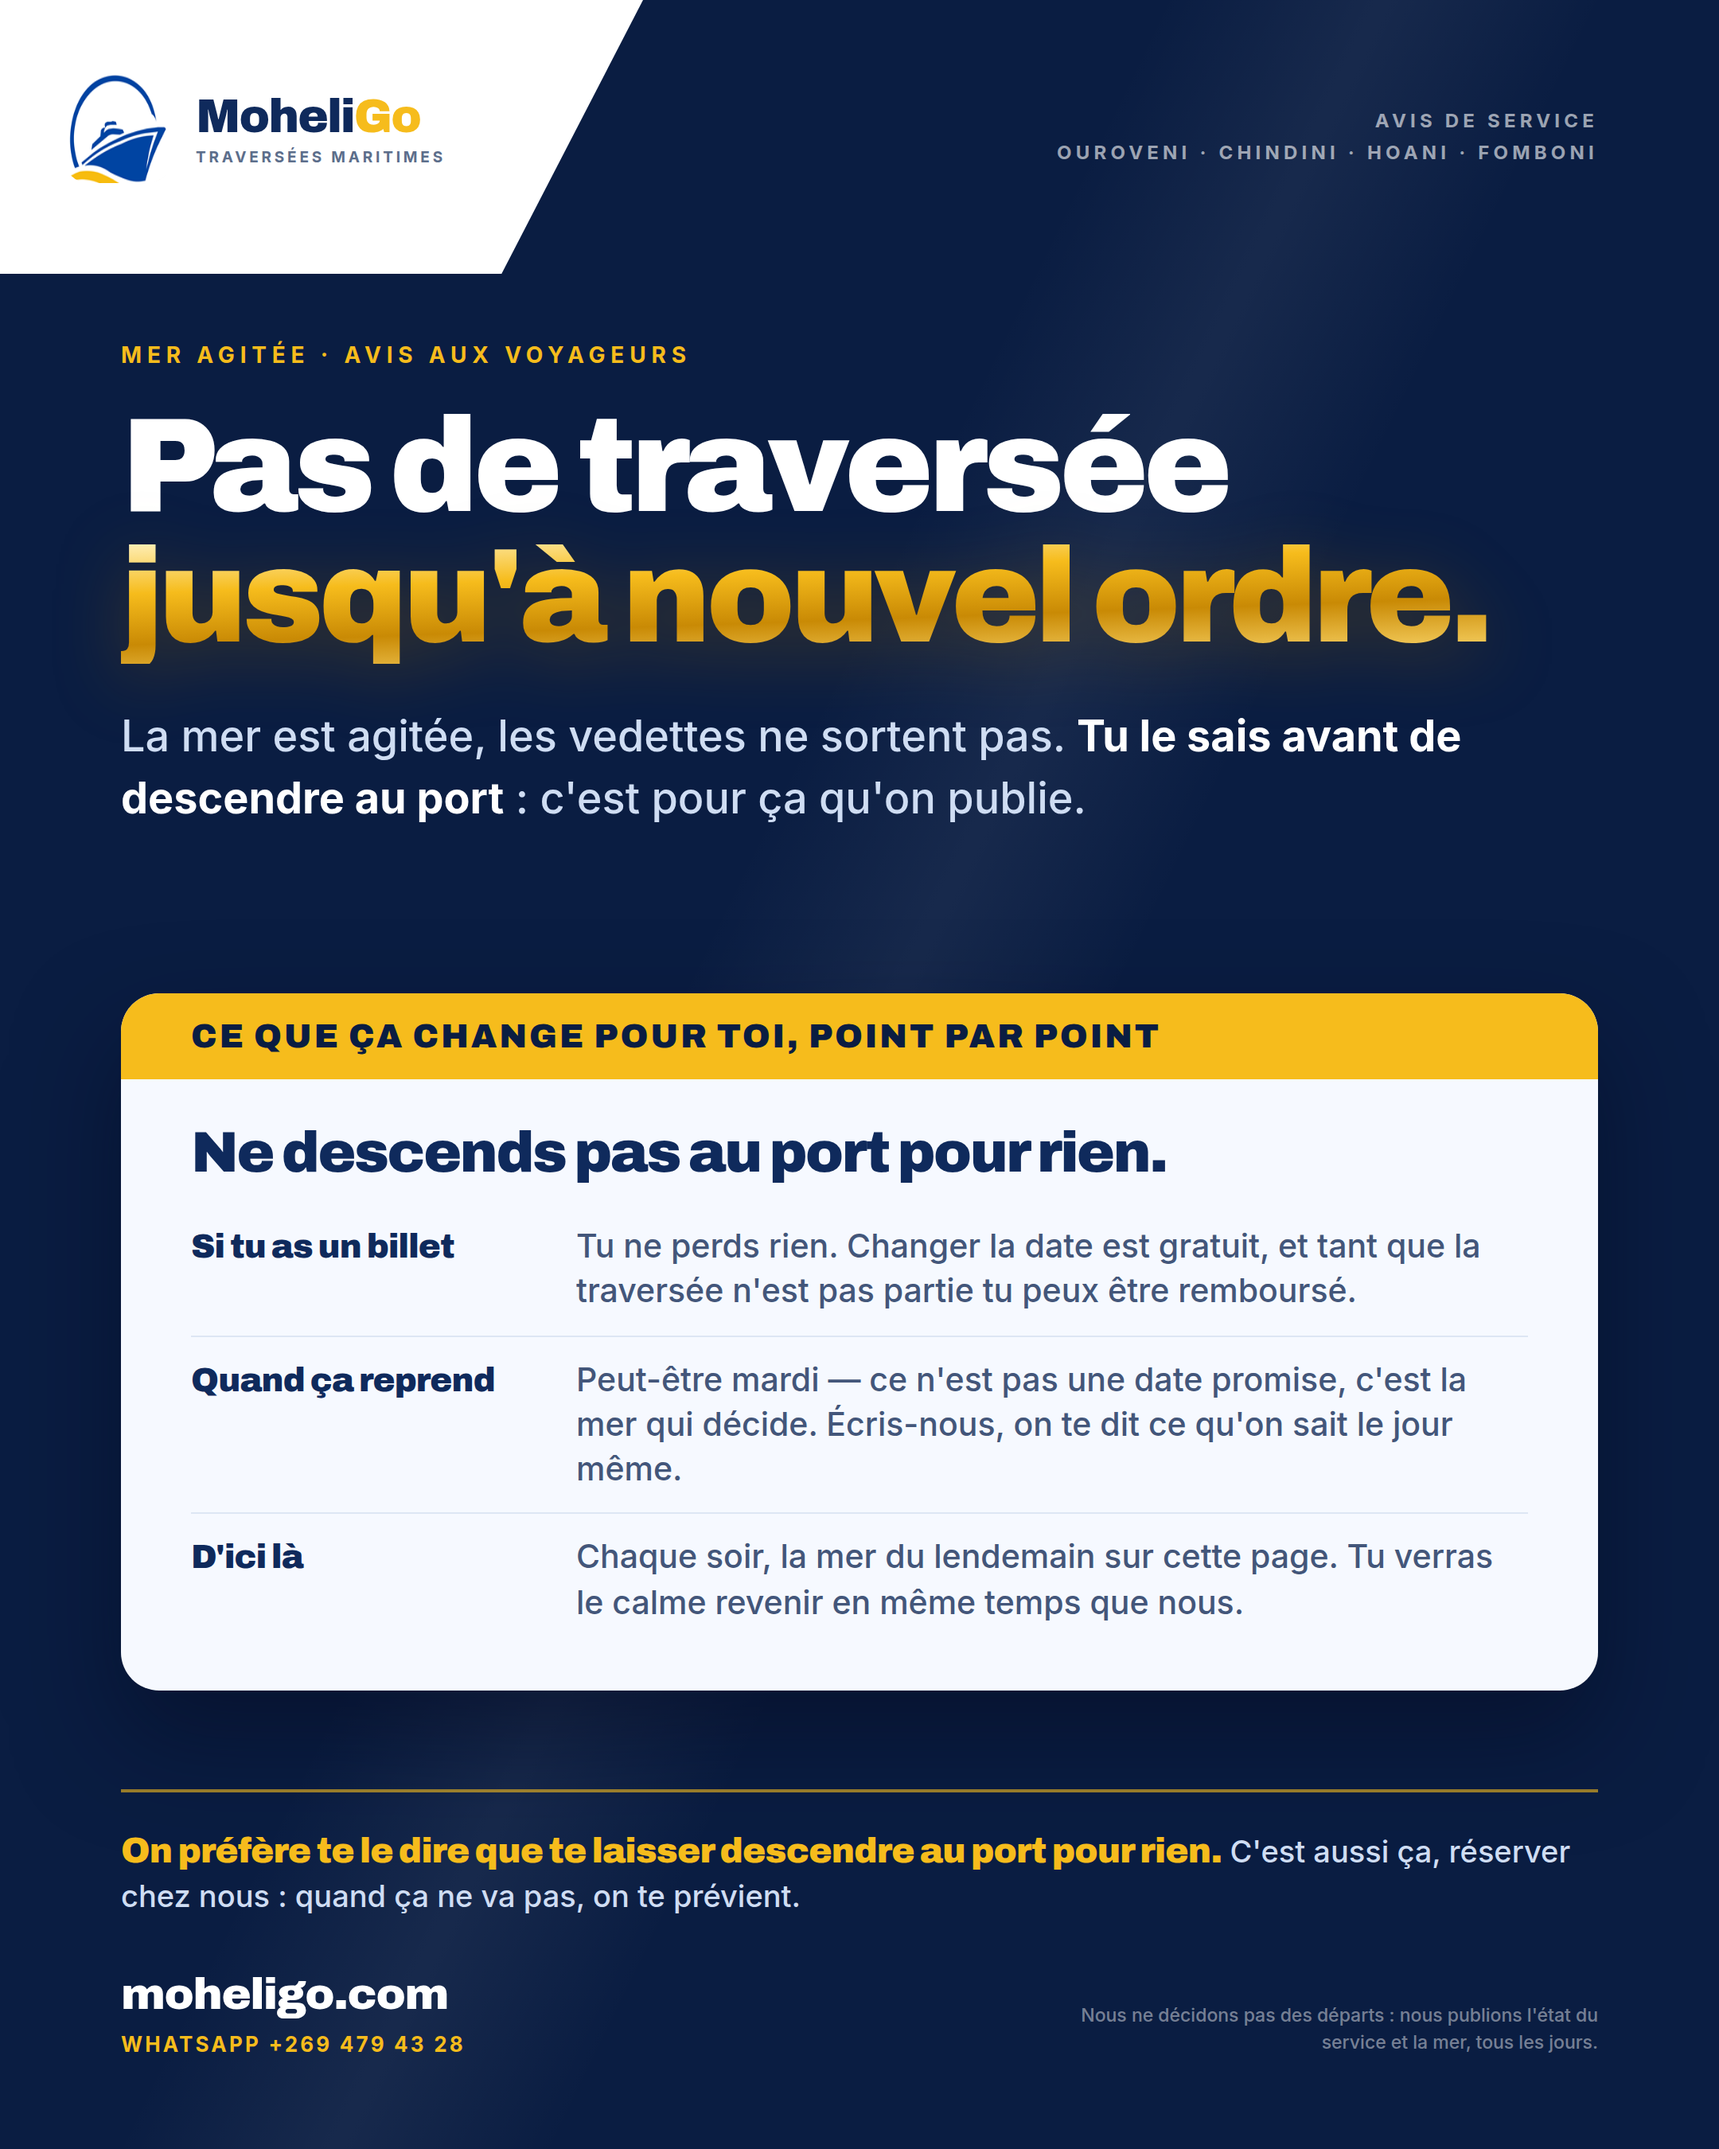
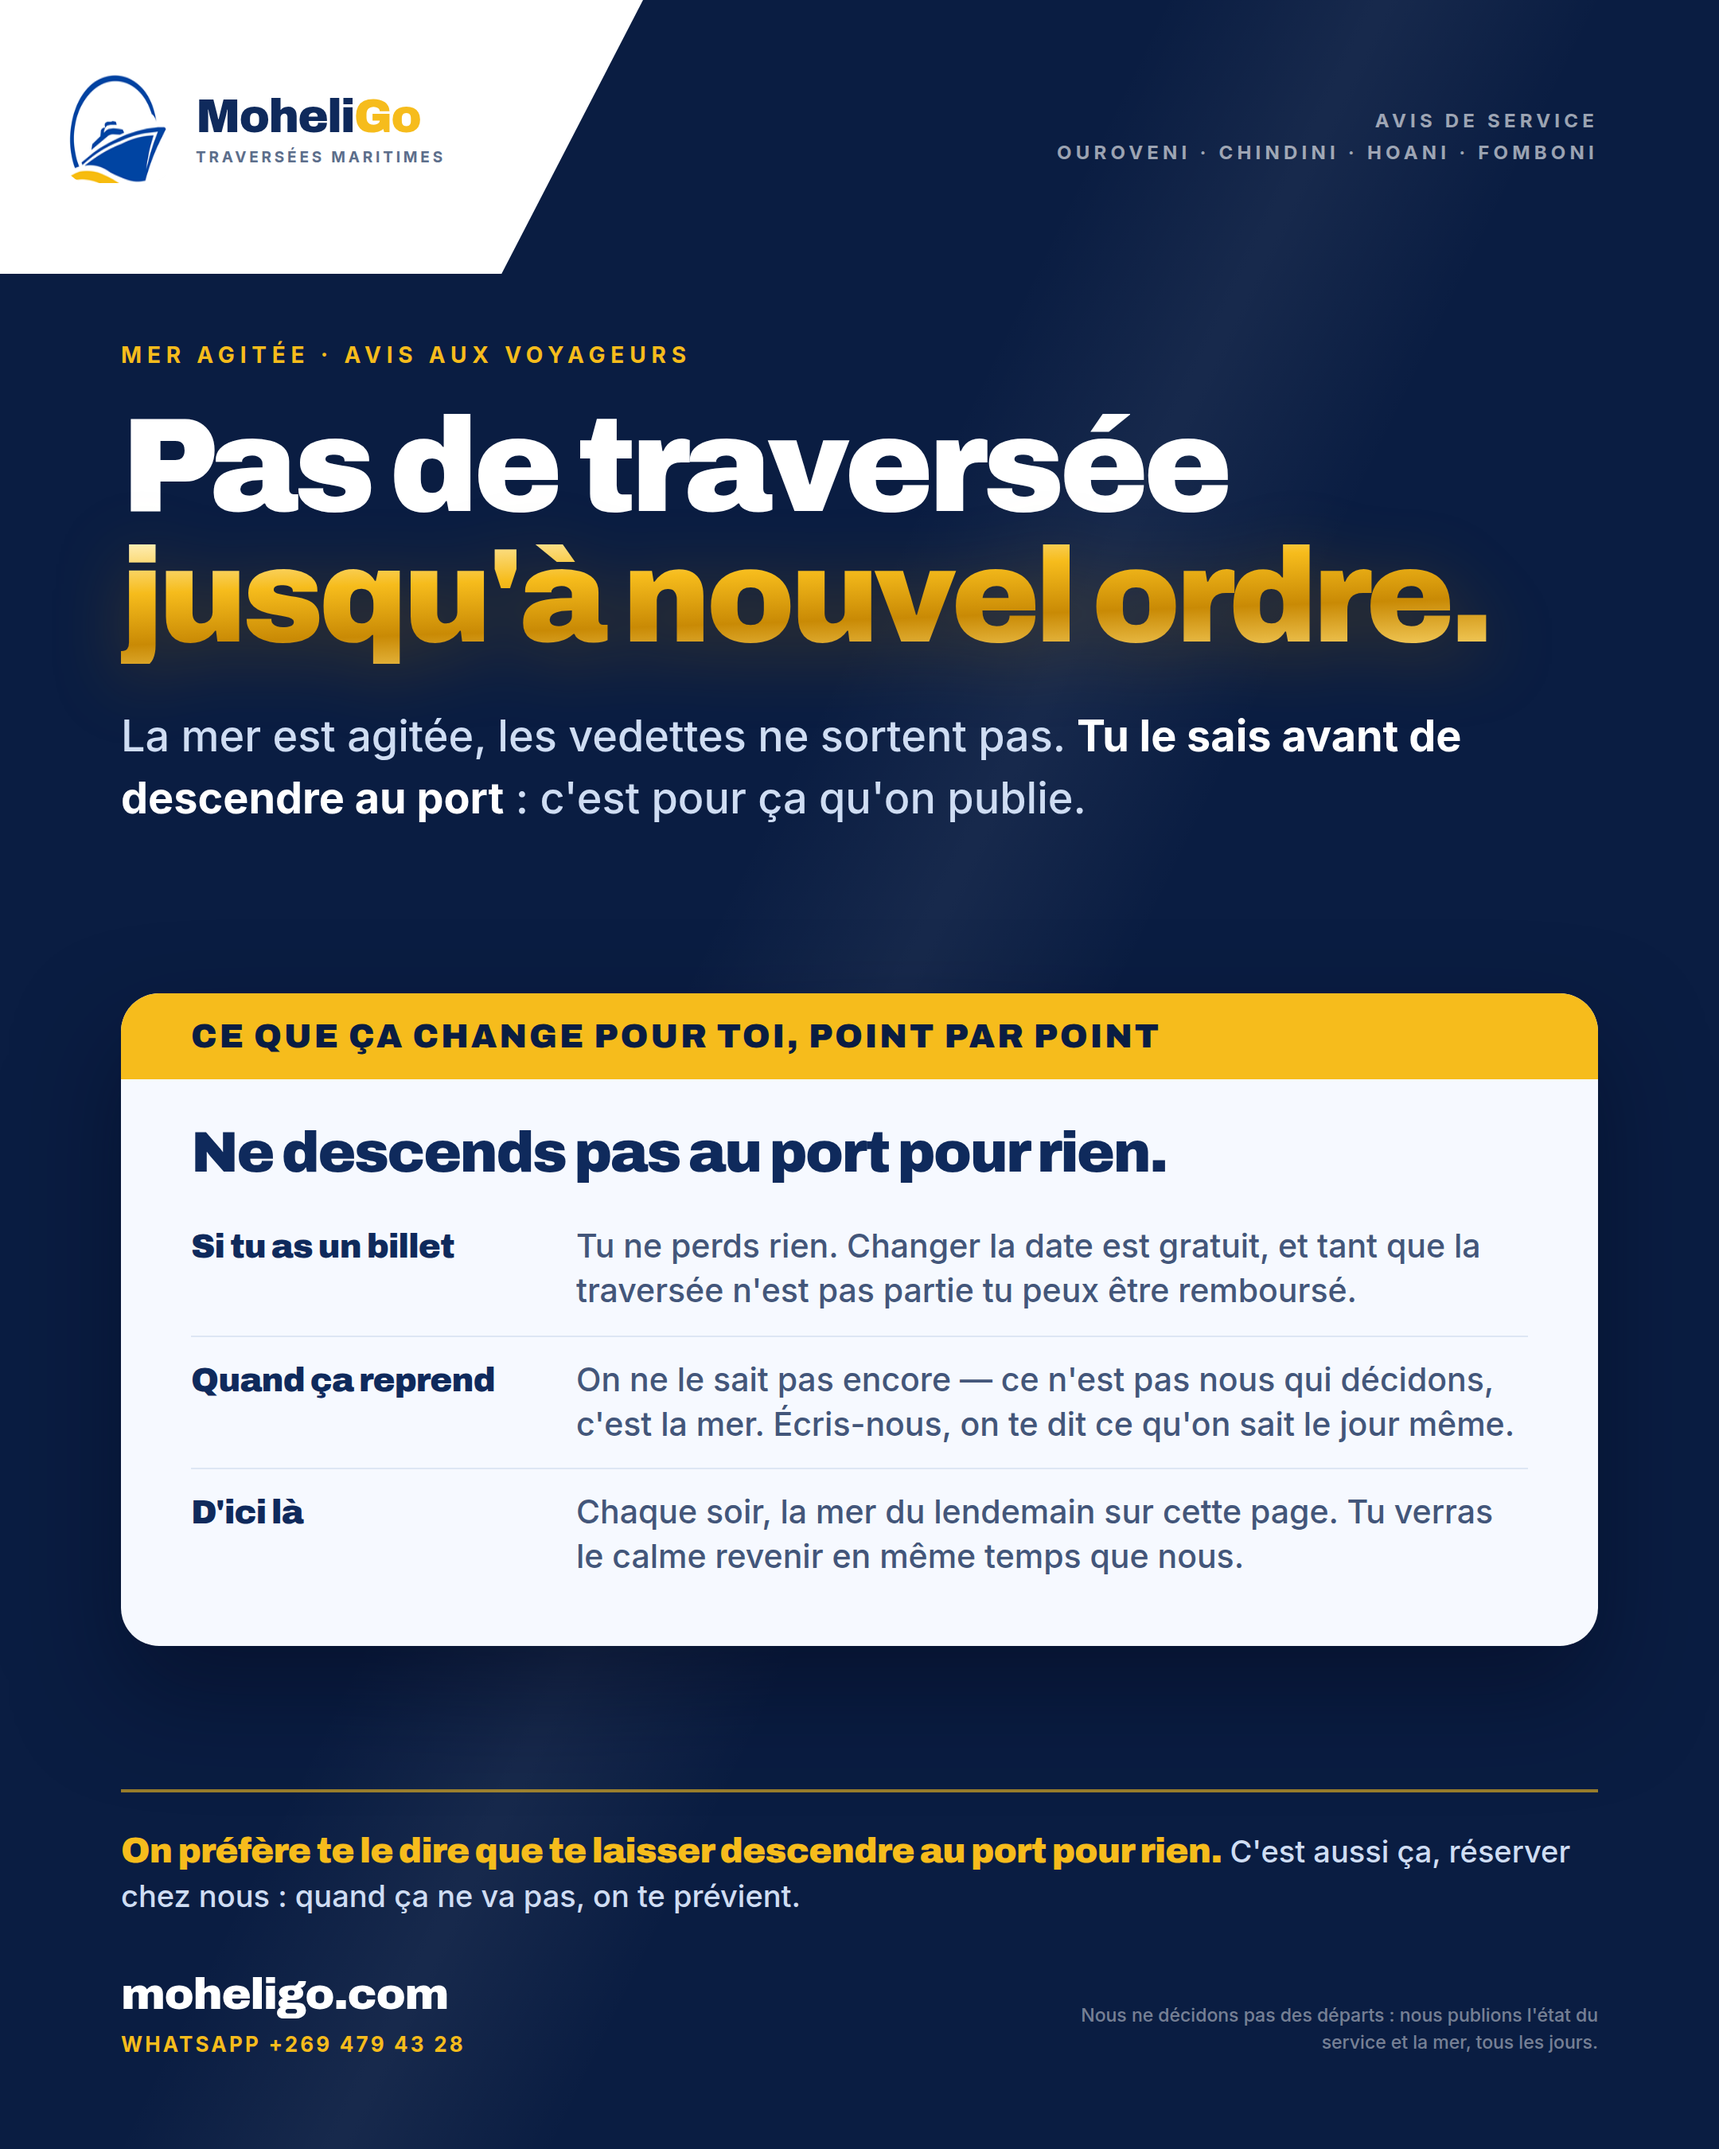
Le visuel de l'avis gravait aussi « peut-etre mardi » : regenere sans date

Changed region(s): [[0.062, 0.6222, 0.9306, 0.8089]]

diff --git a/moheligo/pub/flyers/flyer31-suspension-fb.html b/moheligo/pub/flyers/flyer31-suspension-fb.html
@@ -133,8 +133,12 @@ body { width:1080px; height:1350px; font-family:'Inter',sans-serif; -webkit-font
         <li><b>Si tu as un billet</b><span>Tu ne perds rien. Changer la date est
           gratuit, et tant que la traversée n'est pas partie tu peux être
           remboursé.</span></li>
-        <li><b>Quand ça reprend</b><span>Peut-être mardi — ce n'est pas une date
-          promise, c'est la mer qui décide. Écris-nous, on te dit ce qu'on sait
+        <!-- ⚠ 26/08/2026 : ici était écrit « Peut-être mardi », resté de la
+             fermeture du 12/08. Une date gravée dans une image ne se corrige
+             pas une fois publiée : on n'en met JAMAIS. L'état du jour se dit
+             dans le texte de la publication, qui lui suit service.py. -->
+        <li><b>Quand ça reprend</b><span>On ne le sait pas encore — ce n'est pas
+          nous qui décidons, c'est la mer. Écris-nous, on te dit ce qu'on sait
           le jour même.</span></li>
         <li><b>D'ici là</b><span>Chaque soir, la mer du lendemain sur cette page.
           Tu verras le calme revenir en même temps que nous.</span></li>

diff --git a/moheligo/dossier/MEMOIRE.md b/moheligo/dossier/MEMOIRE.md
@@ -370,6 +370,29 @@ recharger ce sujet ici, ce n'est pas du marketing.
 
 ## 6. Journal des sessions
 
+- **26/08/2026 (🚨 L'AVIS ALLAIT ANNONCER UN MARDI QUE PERSONNE N'AVAIT PROMIS)** —
+  le patron : « relance l'avis ». **La répétition à blanc a évité la faute.**
+  L'avis contenait, **écrit en dur dans le texte ET gravé dans l'image** :
+  **« QUAND ÇA REPREND : PEUT-ÊTRE MARDI »** — un reste de la fermeture du 12/08,
+  où le patron avait dit « ouverture possible mardi ». **Cette fois il n'a donné
+  aucune date.** J'avais bien mis `reouverture_possible=None` dans `service.py`…
+  mais la phrase vivait ailleurs, donc le garde-fou ne la voyait pas.
+  🚨 **C'est la faute que l'en-tête de `service.py` interdit noir sur blanc** :
+  « une date annoncée puis non tenue fait plus de mal que pas de date du tout ».
+  On l'aurait commise en la publiant nous-mêmes.
+  ✅ **Corrigé aux DEUX endroits** : `service.paragraphe_reprise()` produit le
+  paragraphe selon `FERMETURE['reouverture_possible']` (avec date si le patron en
+  a donné une, « on ne le sait pas encore » sinon), et `flyer31-suspension-fb.html`
+  ne grave plus **aucune** date — regénéré et revérifié.
+  📌 **LA RÈGLE, TROISIÈME FOIS EN UNE JOURNÉE** : après le commentaire du
+  bulletin et le diagnostic menteur, voici le troisième texte qui promettait
+  quelque chose sans passer par `service.py`. **Tout ce qui promet une traversée
+  OU une date vit dans `service.py`, jamais écrit en dur ailleurs — texte comme
+  image.**
+  📌 **Et une leçon propre aux images** : **une date gravée dans un visuel ne se
+  corrige pas une fois publiée.** On n'en met jamais. L'état du jour se dit dans
+  le texte, qui, lui, suit l'état du service.
+
 - **26/08/2026 (🛑 ARRÊT DEMANDÉ — la vidéo attendra la réouverture)** — le
   patron, revenant sur sa consigne de dix minutes plus tôt : « **donc ne publie
   pas aujourd'hui, on la garde pour le jour de la réouverture, comme ça ça fait
